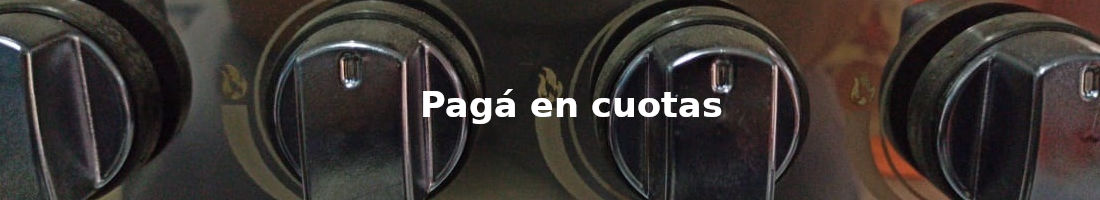
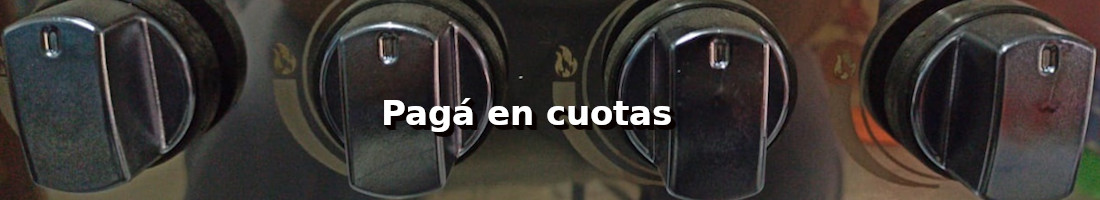
cambios imagenes en slide y novedades

diff --git a/index.html b/index.html
@@ -99,53 +99,54 @@
             </div>
         </section>
         <section class="container-fluid novedades">
-        <div class="row">
-            <div class="col-sm-10 offset-sm-1 col-12 text-center mt-4 mb-4 pt-3 fondosTitulos">
-                <h2>Novedades</h2>
+            <div class="row">
+                <div class="col-sm-10 offset-sm-1 col-12 text-center mt-4 mb-4 pt-3 fondosTitulos">
+                    <h2>Novedades</h2>
+                </div>
             </div>
-        </div>
-        <div class="row">
-            <div class="col-12 col-sm-6 col-lg-3 mb-4">
-                <div class="card novedades__card">
-                    <img src="./assets/categ_cocinas/Cocina4Hornallas_58cm.jpeg" class="card-img-top" alt="...">
-                    <div class="card-body ">
-                      <h5 class="card-title">Cocina 4 hornallas 58 cm.</h5>
-                      <p class="card-text">Cocina De Paolo 4 Hornallas Puerta Acero con Rejas De Hierro Enlozado. Ideal para aquellos que buscan cocinar como los mas reconocidos chefs en su casa. El gabinete en eacero y su aislacion mediante lana de vidrio te permite tener una cocina de restaurant en tu hogar.</p>
-                      <a href="#" class="btn btn-primary">VER +</a>
+            <div class="row">
+                <div class="col-12 col-sm-6 col-lg-3 mb-4">
+                    <div class="card novedades__card">
+                        <img src="./assets/categ_cocinas/Cocina4Hornallas_58cm.jpeg" class="card-img-top" alt="...">
+                        <div class="card-body ">
+                        <h5 class="card-title">Cocina 4 hornallas 58 cm.</h5>
+                        <p class="card-text">Cocina De Paolo 4 Hornallas Puerta Acero con Rejas De Hierro Enlozado. Ideal para aquellos que buscan cocinar como los mas reconocidos chefs en su casa. El gabinete en eacero y su aislacion mediante lana de vidrio te permite tener una cocina de restaurant en tu hogar.</p>
+                        <a href="#" class="btn btn-primary">VER +</a>
+                        </div>
                     </div>
-                  </div>
-            </div>
-            <div class="col-12 col-sm-6 col-lg-3 mb-4">
-                <div class="card novedades__card">
-                    <img src="./assets/categ_cocinas/Cocina4Hornallas_58cm.jpeg" class="card-img-top" alt="...">
-                    <div class="card-body ">
-                      <h5 class="card-title">Cocina 4 hornallas 58 cm.</h5>
-                      <p class="card-text">Cocina De Paolo 4 Hornallas Puerta Acero con Rejas De Hierro Enlozado. Ideal para aquellos que buscan cocinar como los mas reconocidos chefs en su casa. El gabinete en eacero y su aislacion mediante lana de vidrio te permite tener una cocina de restaurant en tu hogar.</p>
-                      <a href="#" class="btn btn-primary">VER +</a>
+                </div>
+                <div class="col-12 col-sm-6 col-lg-3 mb-4">
+                    <div class="card novedades__card">
+                        <img src="./assets/categ_cocinas/Cocina_Depaolo_4hornallasyPlanchaConCarlitero.jpeg" class="card-img-top" alt="...">
+                        <div class="card-body ">
+                        <h5 class="card-title">Cocina Depaolo 4 hornallas</h5>
+                        <p class="card-text">La cocina DePaolo de 4 hornallas con Plancha bifera tiene una gran versatilidad al tener una plancha grande apta para carnes y verduras. Te permite tener un producto de calidad profesional en tu hogar/negocio. Ademas viene con el Horno mas grande de su gama.</p>
+                        <a href="#" class="btn btn-primary">VER +</a>
+                        </div>
                     </div>
-                  </div>
-            </div>
-            <div class="col-12 col-sm-6 col-lg-3 mb-4">
-                <div class="card novedades__card">
-                    <img src="./assets/categ_cocinas/Cocina4Hornallas_58cm.jpeg" class="card-img-top" alt="...">
-                    <div class="card-body ">
-                      <h5 class="card-title">Cocina 4 hornallas 58 cm.</h5>
-                      <p class="card-text">Cocina De Paolo 4 Hornallas Puerta Acero con Rejas De Hierro Enlozado. Ideal para aquellos que buscan cocinar como los mas reconocidos chefs en su casa. El gabinete en eacero y su aislacion mediante lana de vidrio te permite tener una cocina de restaurant en tu hogar.</p>
-                      <a href="#" class="btn btn-primary">VER +</a>
+                </div>
+                <div class="col-12 col-sm-6 col-lg-3 mb-4">
+                    <div class="card novedades__card">
+                        <img src="./assets/categ_campanasPared/Campana_Luxorgas_Retro__900.jpg" class="card-img-top" alt="...">
+                        <div class="card-body ">
+                        <h5 class="card-title">Campana Luxor retro 900</h5>
+                        <p class="card-text">Excelencia, fortaleza y distinción dan origen a nuestra línea de campanas extractoras. La combinación perfecta para nuestra gran variedad en diseños de cocinas. Presentan gran robustez estructural con cuerpo en acero inoxidable.</p>
+                        <a href="#" class="btn btn-primary">VER +</a>
+                        </div>
                     </div>
-                  </div>
-            </div>
-            <div class="col-12 col-sm-6 col-lg-3 mb-4">
-                <div class="card novedades__card">
-                    <img src="./assets/categ_cocinas/Cocina4Hornallas_58cm.jpeg" class="card-img-top" alt="...">
-                    <div class="card-body ">
-                      <h5 class="card-title">Cocina 4 hornallas 58 cm.</h5>
-                      <p class="card-text">Cocina De Paolo 4 Hornallas Puerta Acero con Rejas De Hierro Enlozado. Ideal para aquellos que buscan cocinar como los mas reconocidos chefs en su casa. El gabinete en eacero y su aislacion mediante lana de vidrio te permite tener una cocina de restaurant en tu hogar.</p>
-                      <a href="#" class="btn btn-primary">VER +</a>
+                </div>
+                <div class="col-12 col-sm-6 col-lg-3 mb-4">
+                    <div class="card novedades__card">
+                        <img src="./assets/categ_hornos/Horno_electrico_empotrar_TST_Fornello.jpg" class="card-img-top" alt="...">
+                        <div class="card-body ">
+                        <h5 class="card-title">Horno Empotrar Fornello</h5>
+                        <p class="card-text">El Horno empotrable TST Fornello le brindará a tu cocina un estilo sofisticado y te dará la posibilidad de ahorrar más espacio. 
+                            Tiene 8 programas de coccion, lo que lo hace ideal para cocinar no solo preparaciones saladas como pizzas, empanadas, carnes o tartas.</p>
+                        <a href="#" class="btn btn-primary">VER +</a>
+                        </div>
                     </div>
-                  </div>
+                </div>
             </div>
-        </div>
         </section>  
     </main>
 

diff --git a/pages/Como_Comprar.html b/pages/Como_Comprar.html
@@ -95,7 +95,7 @@
         
         <section class="container-fluid novedades">
             <div class="row">
-                <div class="col-sm-10 offset-sm-1 col-12 text-center mt-4 mb-4 pt-3 novedades__titulo">
+                <div class="col-sm-10 offset-sm-1 col-12 text-center mt-4 mb-4 pt-3 fondosTitulos">
                     <h2>Novedades</h2>
                 </div>
             </div>
@@ -108,37 +108,38 @@
                           <p class="card-text">Cocina De Paolo 4 Hornallas Puerta Acero con Rejas De Hierro Enlozado. Ideal para aquellos que buscan cocinar como los mas reconocidos chefs en su casa. El gabinete en eacero y su aislacion mediante lana de vidrio te permite tener una cocina de restaurant en tu hogar.</p>
                           <a href="#" class="btn btn-primary">VER +</a>
                         </div>
-                    </div>
+                      </div>
                 </div>
                 <div class="col-12 col-sm-6 col-lg-3 mb-4">
                     <div class="card novedades__card">
-                        <img src="../assets/categ_cocinas/Cocina4Hornallas_58cm.jpeg" class="card-img-top" alt="...">
+                        <img src="../assets/categ_cocinas/Cocina_Depaolo_4hornallasyPlanchaConCarlitero.jpeg" class="card-img-top" alt="...">
                         <div class="card-body ">
-                          <h5 class="card-title">Cocina 4 hornallas 58 cm.</h5>
-                          <p class="card-text">Cocina De Paolo 4 Hornallas Puerta Acero con Rejas De Hierro Enlozado. Ideal para aquellos que buscan cocinar como los mas reconocidos chefs en su casa. El gabinete en eacero y su aislacion mediante lana de vidrio te permite tener una cocina de restaurant en tu hogar.</p>
+                          <h5 class="card-title">Cocina Depaolo 4 hornallas</h5>
+                          <p class="card-text">La cocina DePaolo de 4 hornallas con Plancha bifera tiene una gran versatilidad al tener una plancha grande apta para carnes y verduras. Te permite tener un producto de calidad profesional en tu hogar/negocio. Ademas viene con el Horno mas grande de su gama.</p>
                           <a href="#" class="btn btn-primary">VER +</a>
                         </div>
-                    </div>
+                      </div>
                 </div>
                 <div class="col-12 col-sm-6 col-lg-3 mb-4">
                     <div class="card novedades__card">
-                        <img src="../assets/categ_cocinas/Cocina4Hornallas_58cm.jpeg" class="card-img-top" alt="...">
+                        <img src="../assets/categ_campanasPared/Campana_Luxorgas_Retro__900.jpg" class="card-img-top" alt="...">
                         <div class="card-body ">
-                          <h5 class="card-title">Cocina 4 hornallas 58 cm.</h5>
-                          <p class="card-text">Cocina De Paolo 4 Hornallas Puerta Acero con Rejas De Hierro Enlozado. Ideal para aquellos que buscan cocinar como los mas reconocidos chefs en su casa. El gabinete en eacero y su aislacion mediante lana de vidrio te permite tener una cocina de restaurant en tu hogar.</p>
+                          <h5 class="card-title">Campana Luxor retro 900</h5>
+                          <p class="card-text">Excelencia, fortaleza y distinción dan origen a nuestra línea de campanas extractoras. La combinación perfecta para nuestra gran variedad en diseños de cocinas. Presentan gran robustez estructural con cuerpo en acero inoxidable.</p>
                           <a href="#" class="btn btn-primary">VER +</a>
                         </div>
-                    </div>
+                      </div>
                 </div>
                 <div class="col-12 col-sm-6 col-lg-3 mb-4">
                     <div class="card novedades__card">
-                        <img src="../assets/categ_cocinas/Cocina4Hornallas_58cm.jpeg" class="card-img-top" alt="...">
+                        <img src="../assets/categ_hornos/Horno_electrico_empotrar_TST_Fornello.jpg" class="card-img-top" alt="...">
                         <div class="card-body ">
-                          <h5 class="card-title">Cocina 4 hornallas 58 cm.</h5>
-                          <p class="card-text">Cocina De Paolo 4 Hornallas Puerta Acero con Rejas De Hierro Enlozado. Ideal para aquellos que buscan cocinar como los mas reconocidos chefs en su casa. El gabinete en eacero y su aislacion mediante lana de vidrio te permite tener una cocina de restaurant en tu hogar.</p>
+                          <h5 class="card-title">Horno Empotrar Fornello</h5>
+                          <p class="card-text">El Horno empotrable TST Fornello le brindará a tu cocina un estilo sofisticado y te dará la posibilidad de ahorrar más espacio. 
+                            Tiene 8 programas de coccion, lo que lo hace ideal para cocinar no solo preparaciones saladas como pizzas, empanadas, carnes o tartas.</p>
                           <a href="#" class="btn btn-primary">VER +</a>
                         </div>
-                    </div>
+                      </div>
                 </div>
             </div>
         </section>  
